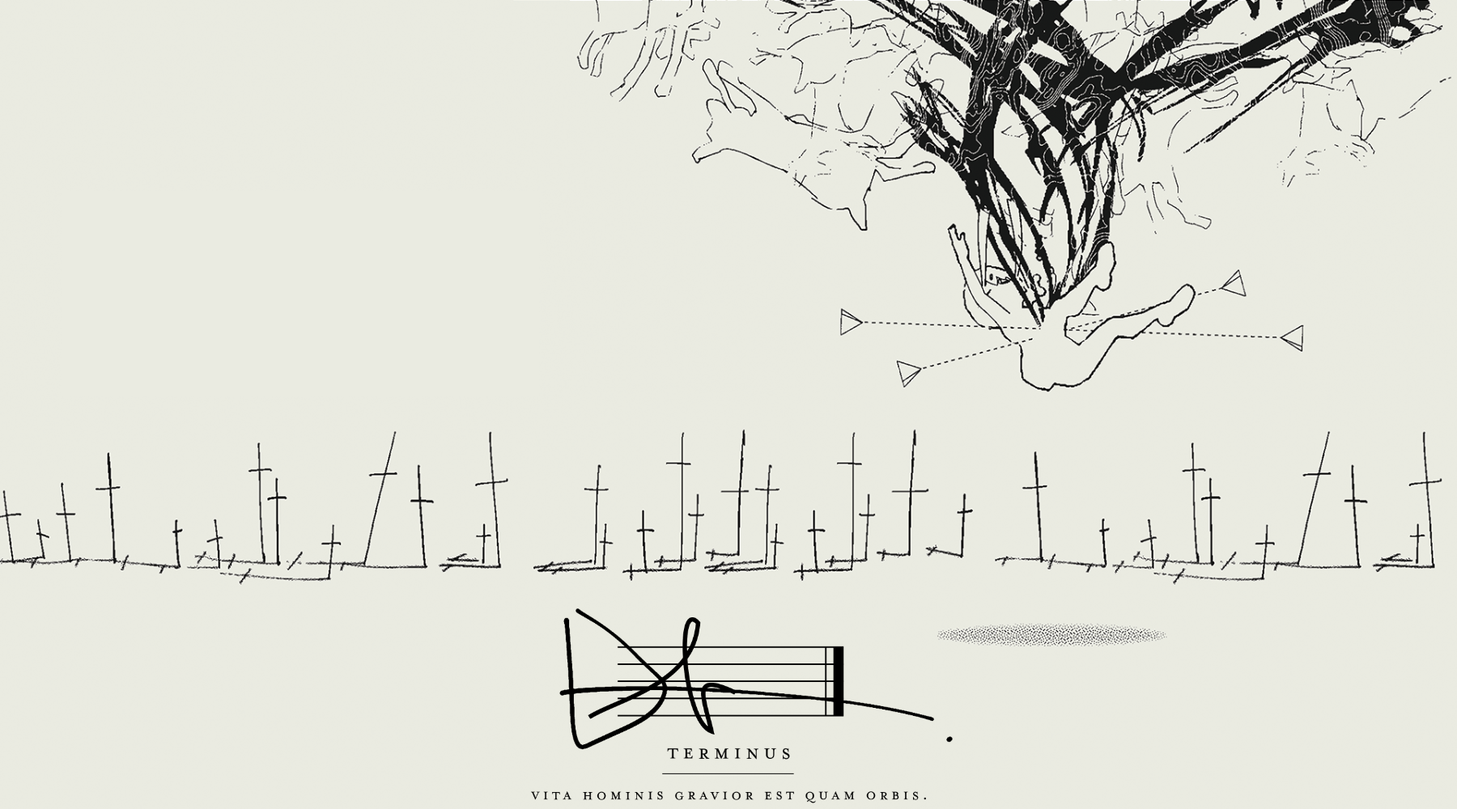
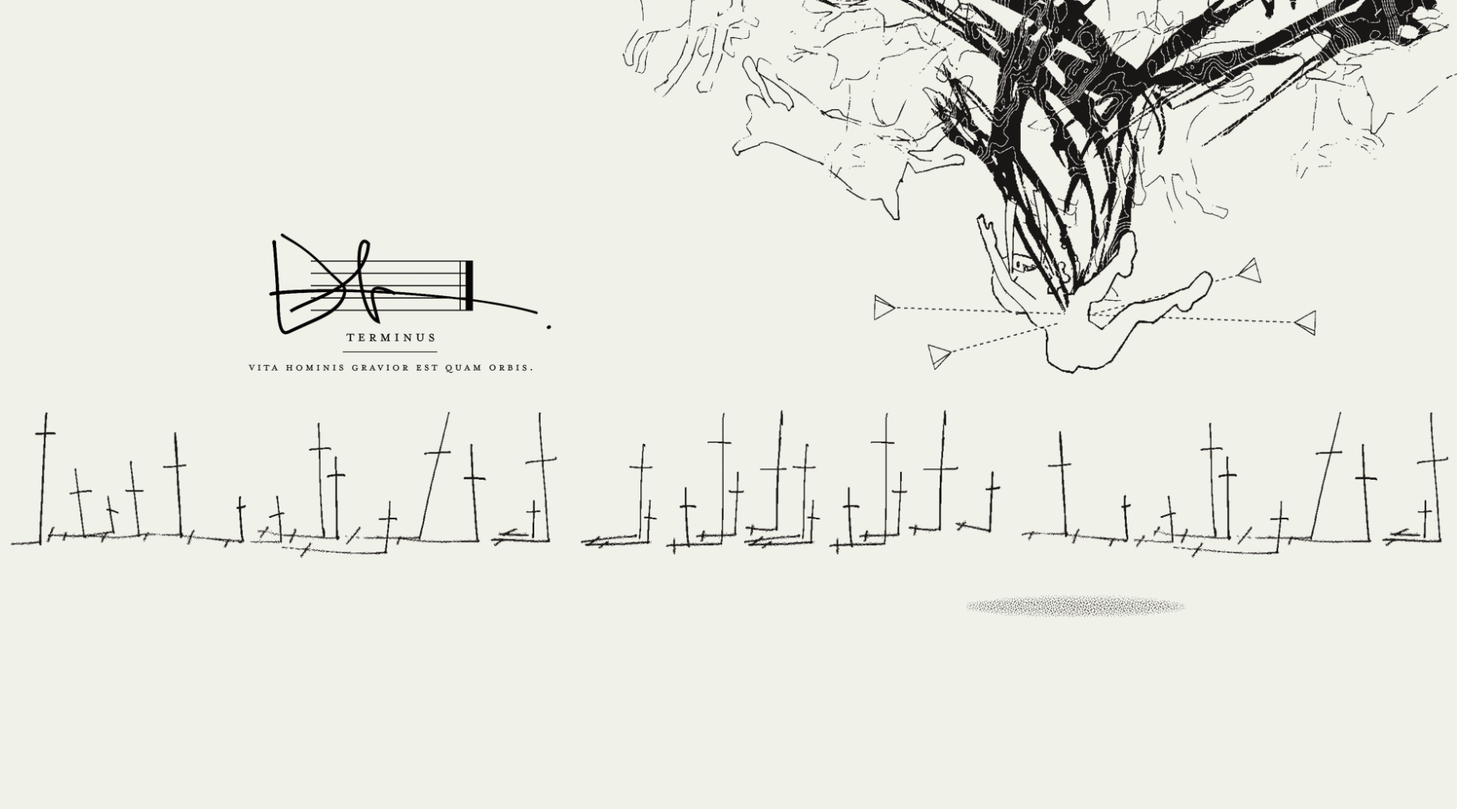
terminus 特設 bg

diff --git a/terminus/assets/style-light.css b/terminus/assets/style-light.css
@@ -1,1 +1,1 @@
-/*! normalize.css v4.1.1 | MIT License | github.com/necolas/normalize.css */html{font-family:sans-serif;-ms-text-size-adjust:100%;-webkit-text-size-adjust:100%}body{margin:0}article,aside,details,figcaption,figure,footer,header,main,menu,nav,section,summary{display:block}audio,canvas,progress,video{display:inline-block}audio:not([controls]){display:none;height:0}progress{vertical-align:baseline}template,[hidden]{display:none}a{background-color:transparent;-webkit-text-decoration-skip:objects}a:active,a:hover{outline-width:0}abbr[title]{border-bottom:none;text-decoration:underline;text-decoration:underline dotted}b,strong{font-weight:inherit}b,strong{font-weight:bolder}dfn{font-style:italic}h1{font-size:2em;margin:.67em 0}mark{background-color:#ff0;color:#000}small{font-size:80%}sub,sup{font-size:75%;line-height:0;position:relative;vertical-align:baseline}sub{bottom:-.25em}sup{top:-.5em}img{border-style:none}svg:not(:root){overflow:hidden}code,kbd,pre,samp{font-family:monospace,monospace;font-size:1em}figure{margin:1em 40px}hr{box-sizing:content-box;height:0;overflow:visible}button,input,select,textarea{font:inherit;margin:0}optgroup{font-weight:700}button,input{overflow:visible}button,select{text-transform:none}button,html [type=button],[type=reset],[type=submit]{-webkit-appearance:button}button::-moz-focus-inner,[type=button]::-moz-focus-inner,[type=reset]::-moz-focus-inner,[type=submit]::-moz-focus-inner{border-style:none;padding:0}button:-moz-focusring,[type=button]:-moz-focusring,[type=reset]:-moz-focusring,[type=submit]:-moz-focusring{outline:1px dotted ButtonText}fieldset{border:1px solid silver;margin:0 2px;padding:.35em .625em .75em}legend{box-sizing:border-box;color:inherit;display:table;max-width:100%;padding:0;white-space:normal}textarea{overflow:auto}[type=checkbox],[type=radio]{box-sizing:border-box;padding:0}[type=number]::-webkit-inner-spin-button,[type=number]::-webkit-outer-spin-button{height:auto}[type=search]{-webkit-appearance:textfield;outline-offset:-2px}[type=search]::-webkit-search-cancel-button,[type=search]::-webkit-search-decoration{-webkit-appearance:none}::-webkit-input-placeholder{color:inherit;opacity:.54;-ms-filter:"progid:DXImageTransform.Microsoft.Alpha(Opacity=54)"}::-webkit-file-upload-button{-webkit-appearance:button;font:inherit}body{font-family:Helvetica Neue,Helvetica,Arial,sans-serif;background:#ebeae1;color:#36393d;-webkit-font-smoothing:antialiased;line-height:1.3;font-size:14.4px;font-size:.9rem;word-wrap:break-word}a{color:#5289db;-webkit-transition:all .2s;transition:all .2s;text-decoration:none}a:hover:not(.btn){text-decoration:underline}p{line-height:1.6}h1 a,h1 a:hover,h2 a,h2 a:hover,h3 a,h3 a:hover,h4 a,h4 a:hover,h5 a,h5 a:hover,h6 a,h6 a:hover{color:#36393d;text-decoration:none}.l-section{margin:2.5em auto}@media(min-width:992px){.l-section{margin:4em auto}}.l-section img{max-width:100%}.section-header{text-align:center;margin-bottom:2em}.section-header h2{margin:.5em auto;font-size:25.6px;font-size:1.6rem}@media(min-width:768px){.section-header h2{font-size:2rem}}.tmblr-iframe,.tmblr-iframe--mobile-loggedin-controls,.iframe-controls--phone-mobile{display:none!important}.tmblr-iframe--controls-phone-container,.tmblr-iframe-pushdown{padding-top:0!important}.l-container{width:auto;margin-left:10px;margin-right:10px}@media(min-width:768px){.l-container{width:720px;margin-left:auto;margin-right:auto}}@media(min-width:992px){.l-container{width:940px}}@media(min-width:1200px){.l-container{width:1140px}}.l-row:after{content:" ";display:block;clear:both}@media(min-width:768px){.l-row{margin-left:-15px;margin-right:-15px}}[class*=l-span]{margin-bottom:1em}@media(min-width:768px){[class*=l-span]{float:left;padding-right:15px;padding-left:15px;min-height:1px;box-sizing:border-box;margin-bottom:0}}[class*=l-span] img{max-width:100%}@media(min-width:768px){.l-span1{width:8.33333333%}.l-span2{width:16.66666667%}.l-span3{width:25%}.l-span4{width:33.33333333%}.l-span5{width:41.66666667%}.l-span6{width:50%}.l-span7{width:58.33333333%}.l-span8{width:66.66666667%}.l-span9{width:75%}.l-span10{width:83.33333333%}.l-span11{width:91.66666667%}}.globalHeader.is-transparent{background-color:#ebeae1!important}@media(min-width:768px){.globalHeader.is-transparent{background-color:transparent!important;position:absolute;top:0;left:0;width:100%;z-index:2}}@media(min-width:768px){.globalHeader.is-dark,.globalHeader.is-light,.globalHeader.is-accent{position:static}}@media(min-width:768px){.globalHeader.is-dark .btn-tw,.globalHeader.is-dark .btn-fb,.globalHeader.is-light .btn-tw,.globalHeader.is-light .btn-fb,.globalHeader.is-accent .btn-tw,.globalHeader.is-accent .btn-fb{border:none;box-shadow:none}}.globalHeader.is-dark{background-color:#232426!important}.globalHeader.is-dark a{color:#ebeae1}.globalHeader.is-light{background-color:#ebeae1!important}.globalHeader.is-light a{color:#36393d}.globalHeader.is-accent a{color:#ebeae1}.globalHeader-inner{display:-webkit-box;display:-ms-flexbox;display:flex;-webkit-box-pack:justify;-ms-flex-pack:justify;justify-content:space-between;padding:.7em 0}.globalHeader-shareBtns{display:-webkit-box;display:-ms-flexbox;display:flex;-webkit-box-align:center;-ms-flex-align:center;align-items:center}@media(min-width:768px){.globalHeader-shareBtns .btn-tw,.globalHeader-shareBtns .btn-fb{border:1px solid #ebeae1;box-shadow:0 4px 10px rgba(0,0,0,.4)}}.btn-tw,.btn-fb{display:inline-block;border-radius:50%;margin-left:1em;width:36px;height:36px;display:-webkit-box;display:-ms-flexbox;display:flex;-webkit-box-align:center;-ms-flex-align:center;align-items:center;-webkit-box-pack:center;-ms-flex-pack:center;justify-content:center}.btn-tw:first-child,.btn-fb:first-child{margin-left:0}.btn-tw svg,.btn-fb svg{width:18px;height:18px}@media(min-width:768px){.btn-tw,.btn-fb{width:40px;height:40px}}.btn-tw{background-color:#55acee}.btn-fb{background-color:#3b5998}.globalHeader-labelName{display:-webkit-box;display:-ms-flexbox;display:flex;-webkit-box-align:center;-ms-flex-align:center;align-items:center;max-width:60%;word-break:break-all}.globalHeader-labelName a{color:#36393d}.labelName-logoImg{max-width:100%}.heroHeader{background-color:#ebeae1}.heroHeader-inner{background-repeat:no-repeat;background-position:center center;background-size:cover;margin-left:auto;margin-right:auto;max-width:1800px;position:relative;display:-webkit-box;display:-ms-flexbox;display:flex;-webkit-box-align:center;-ms-flex-align:center;align-items:center}.heroHeader-inner.has-headerImage{height:55vw}@media(min-width:1800px){.heroHeader-inner.has-headerImage{height:1000px}}@media(min-width:1800px){.heroHeader-inner:before{content:"";position:absolute;top:0;left:0;width:10vw;height:100%;background:-webkit-linear-gradient(left,rgba(0,0,0,0),transparent);background:linear-gradient(to right,rgba(0,0,0,0),transparent)}.heroHeader-inner:after{content:"";position:absolute;top:0;right:0;width:10vw;height:100%;background:-webkit-linear-gradient(right,rgba(0,0,0,0),transparent);background:linear-gradient(to left,rgba(0,0,0,0),transparent)}}.heroHeader-inner.is-position-top{-webkit-box-align:start;-ms-flex-align:start;-ms-grid-row-align:flex-start;align-items:flex-start}.heroHeader-inner.is-position-top .header{margin-top:3%}@media(min-width:768px){.heroHeader-inner.is-position-top .header{margin-top:7%}}@media(min-width:992px){.heroHeader-inner.is-position-top .header{margin-top:5%}}.heroHeader-inner.is-position-middle{-webkit-box-align:center;-ms-flex-align:center;-ms-grid-row-align:center;align-items:center}.heroHeader-inner.is-position-bottom{-webkit-box-align:end;-ms-flex-align:end;-ms-grid-row-align:flex-end;align-items:flex-end}.heroHeader-inner.is-position-bottom .header{margin-bottom:3%}.header{text-align:center;width:100%}.header .header-logo{max-width:100%}.header h1{margin:0}.section-introduction{text-align:center}.section-introduction .section-content{text-align:left}@media(min-width:768px){.section-introduction .section-content{text-align:center}}.section-spec .jacket-image{max-width:300px;display:block;margin:0 auto 1.5em;border:1px solid #191919;}@media(max-width:319px){.section-spec .jacket-image{max-width:100%;border:1px solid #191919;}}@media(min-width:768px){.section-spec .jacket-image{max-width:100%;border:1px solid #191919;}}.section-spec .jacket-noimage{height:40vw;width:100%;letter-spacing:.3em;border:1px solid #ddd;display:-webkit-box;display:-ms-flexbox;display:flex;-webkit-box-align:center;-ms-flex-align:center;align-items:center;-webkit-box-pack:center;-ms-flex-pack:center;justify-content:center}.spec-dl{margin:0}.spec-dl dt{font-weight:700;position:relative;margin-bottom:.5em}.spec-dl dt:after{content:"";position:absolute;top:50%;left:0;z-index:1;width:100%;background-color:#ddd;height:1px;display:block}.spec-dl .spec-dl-label{background-color:#ebeae1;display:inline-block;position:relative;z-index:2;padding-right:1em}.spec-dl dd{margin-left:0;margin-bottom:2em}.spec-dl dd:last-child{margin-bottom:0}@media(min-width:768px){.bookSample-container{display:-webkit-box;display:-ms-flexbox;display:flex;-ms-flex-pack:distribute;justify-content:space-around;-ms-flex-wrap:wrap;flex-wrap:wrap;-webkit-box-align:center;-ms-flex-align:center;align-items:center}}.bookSample-content{text-align:center;margin-bottom:1em}@media(min-width:768px){.bookSample-content{cursor:zoom-in}}.bookSample-content .bookSample-image{max-width:100%}@media(min-width:768px){.bookSample-items1 .bookSample-content{width:100%}.bookSample-items2 .bookSample-content{width:48%}.bookSample-items3 .bookSample-content{width:31%}.bookSample-items4 .bookSample-content{width:48%}.bookSample-items5 .bookSample-content{width:31%}.bookSample-items6 .bookSample-content{width:31%}}.bookSample-lightbox{display:none}@media(min-width:768px){.bookSample-lightbox{cursor:zoom-out}.bookSample-lightbox.is-open{display:-webkit-box;display:-ms-flexbox;display:flex;-webkit-box-align:center;-ms-flex-align:center;align-items:center;-webkit-box-pack:center;-ms-flex-pack:center;justify-content:center;position:fixed;top:0;left:0;width:100%;height:100%;z-index:10;background-color:rgba(0,0,0,.8)}.bookSample-lightbox.is-open img{max-width:100%;max-height:100%}}@media(min-width:768px){body.is-open{overflow:hidden}}.section-buy{background-color:rgba(0,0,10,.07);padding:1em 0 1.5em}.spec-buy-container{text-align:center}.spec-buy-button{display:inline-block;text-align:center;padding:.6em 1.2em;cursor:pointer;line-height:1.5;font-size:90%;border-radius:.25em;overflow:hidden;color:#5289db;background-color:transparent;text-decoration:none;border:1px solid #5289db;-webkit-transition:all .2s;transition:all .2s;padding:.7em;font-size:110%;box-sizing:border-box;border-width:2px;width:100%;margin:.2em 0}.spec-buy-button:hover{background-color:#5289db;color:#ebeae1;text-decoration:none;border-color:transparent}@media(min-width:768px){.spec-buy-button{padding:.7em 2em;width:auto}}.section-tracklist .section-content{display:-webkit-box;display:-ms-flexbox;display:flex;-webkit-box-pack:center;-ms-flex-pack:center;justify-content:center}.tracklist{display:table;width:auto;margin:0;padding:0}.tracklist li{display:-webkit-box;display:-ms-flexbox;display:flex;list-style:none;margin-bottom:24px;margin-bottom:1.5rem}@media(min-width:768px){.tracklist li{margin-bottom:2em}}.tracklist li .track-title{display:block}.track-number{color:#5289db;margin-right:.5em;font-size:17.6px;font-size:1.1rem}@media(min-width:768px){.track-number{font-size:1.3rem}}.track-title{font-size:17.6px;font-size:1.1rem;font-weight:700}@media(min-width:768px){.track-title{font-size:1.3rem}}.track-meta{color:#878ea0}.section-youtube .section-content,.section-nicovideo .section-content{max-width:700px;margin:auto}.video-wrap{position:relative;padding-bottom:56.25%;padding-top:30px;height:100%;overflow:hidden;text-align:center}.video-wrap iframe,.video-wrap object,.video-wrap embed{position:absolute;top:0;left:0;width:100%;height:100%}.nicovideo-player{text-align:center}.nicovideo-player>embed,.nicovideo-player div,.nicovideo-player iframe{margin-left:auto;margin-right:auto}.section-additionalContent{text-align:center}.section-additionalContent .section-content{text-align:left}@media(min-width:768px){.section-additionalContent .section-content{text-align:center}}.additionalContent-image-wrapper{margin-top:1.5em;margin-bottom:1em;text-align:center}.credit{display:-webkit-box;display:-ms-flexbox;display:flex;-webkit-box-orient:vertical;-webkit-box-direction:normal;-ms-flex-direction:column;flex-direction:column;-webkit-box-pack:justify;-ms-flex-pack:justify;justify-content:space-between;margin:0;padding:0}@media(min-width:768px){.credit{-webkit-box-orient:horizontal;-webkit-box-direction:normal;-ms-flex-direction:row;flex-direction:row;-ms-flex-wrap:wrap;flex-wrap:wrap}}.credit li{list-style:none;text-align:center;margin-bottom:24px;margin-bottom:1.5rem}@media(min-width:768px){.credit li{width:30%;margin-bottom:2rem}}.credit-role,.credit-title,.credit-website{display:block}.credit-role{color:#878ea0}.credit-title{font-weight:700;margin:.4em 0;font-size:17.6px;font-size:1.1rem}@media(min-width:768px){.credit-title{font-size:1.3rem}}.credit-website-link{display:inline-block;text-align:center;padding:.6em 1.2em;cursor:pointer;line-height:1.5;font-size:90%;border-radius:.25em;overflow:hidden;color:#5289db;background-color:transparent;text-decoration:none;border:1px solid #5289db;-webkit-transition:all .2s;transition:all .2s;font-size:11.2px;font-size:.7rem;padding:.2em .7em}.credit-website-link:hover{background-color:#5289db;color:#ebeae1;text-decoration:none;border-color:transparent}.section-banner .section-content{text-align:center}.footer-shareBtns{display:-webkit-box;display:-ms-flexbox;display:flex;-webkit-box-pack:center;-ms-flex-pack:center;justify-content:center}.footer-shareBtns .btn-tw,.footer-shareBtns .btn-fb{width:50px;height:50px}.section-footer{margin-bottom:1em}@media(min-width:768px){.section-footer{margin-bottom:2em}}.footer-content{font-size:12px;font-size:.75rem;text-align:center;color:#878ea0}.footer-content a{font-weight:700;text-decoration:none;color:#878ea0}.footer-content span{line-height:1.4}@media(min-width:768px){.footer-content{display:-webkit-box;display:-ms-flexbox;display:flex;-webkit-box-pack:justify;-ms-flex-pack:justify;justify-content:space-between}}.footer-copyright{margin-bottom:2em;-webkit-box-align:center;-ms-flex-align:center;-ms-grid-row-align:center;align-items:center}@media(min-width:768px){.footer-copyright{text-align:left;margin-bottom:0}}.footer-theme{text-align:left;display:-webkit-box;display:-ms-flexbox;display:flex;margin:auto;-webkit-box-align:center;-ms-flex-align:center;align-items:center}.footer-theme>div{vertical-align:middle}@media(min-width:768px){.footer-theme{margin:0;text-align:right}}.footer-title{display:block;font-size:16px;font-size:1rem}.footer-theme-author{padding-right:1em}@media(min-width:768px){.footer-theme-author{min-width:250px}}.footer-text{margin-bottom:0}.footer-theme-tokusetsu3{display:block}.footer-install-btn{display:inline-block;text-align:center;padding:.6em 1.2em;cursor:pointer;line-height:1.5;font-size:90%;border-radius:.25em;overflow:hidden;color:#5289db;background-color:transparent;text-decoration:none;border:1px solid #5289db;-webkit-transition:all .2s;transition:all .2s;border-color:#ddd;white-space:nowrap}.footer-install-btn:hover{background-color:#5289db;color:#ebeae1;text-decoration:none;border-color:transparent}.footer-install-btn:hover{text-decoration:none!important;background-color:#ddd}.section-demo .l-container{border:2px dashed #ddd;padding:1em;box-sizing:border-box}.section-demo h3{text-align:center;font-size:150%}
+/*! normalize.css v4.1.1 | MIT License | github.com/necolas/normalize.css */html{font-family:sans-serif;-ms-text-size-adjust:100%;-webkit-text-size-adjust:100%}body{margin:0}article,aside,details,figcaption,figure,footer,header,main,menu,nav,section,summary{display:block}audio,canvas,progress,video{display:inline-block}audio:not([controls]){display:none;height:0}progress{vertical-align:baseline}template,[hidden]{display:none}a{background-color:transparent;-webkit-text-decoration-skip:objects}a:active,a:hover{outline-width:0}abbr[title]{border-bottom:none;text-decoration:underline;text-decoration:underline dotted}b,strong{font-weight:inherit}b,strong{font-weight:bolder}dfn{font-style:italic}h1{font-size:2em;margin:.67em 0}mark{background-color:#ff0;color:#000}small{font-size:80%}sub,sup{font-size:75%;line-height:0;position:relative;vertical-align:baseline}sub{bottom:-.25em}sup{top:-.5em}img{border-style:none}svg:not(:root){overflow:hidden}code,kbd,pre,samp{font-family:monospace,monospace;font-size:1em}figure{margin:1em 40px}hr{box-sizing:content-box;height:0;overflow:visible}button,input,select,textarea{font:inherit;margin:0}optgroup{font-weight:700}button,input{overflow:visible}button,select{text-transform:none}button,html [type=button],[type=reset],[type=submit]{-webkit-appearance:button}button::-moz-focus-inner,[type=button]::-moz-focus-inner,[type=reset]::-moz-focus-inner,[type=submit]::-moz-focus-inner{border-style:none;padding:0}button:-moz-focusring,[type=button]:-moz-focusring,[type=reset]:-moz-focusring,[type=submit]:-moz-focusring{outline:1px dotted ButtonText}fieldset{border:1px solid silver;margin:0 2px;padding:.35em .625em .75em}legend{box-sizing:border-box;color:inherit;display:table;max-width:100%;padding:0;white-space:normal}textarea{overflow:auto}[type=checkbox],[type=radio]{box-sizing:border-box;padding:0}[type=number]::-webkit-inner-spin-button,[type=number]::-webkit-outer-spin-button{height:auto}[type=search]{-webkit-appearance:textfield;outline-offset:-2px}[type=search]::-webkit-search-cancel-button,[type=search]::-webkit-search-decoration{-webkit-appearance:none}::-webkit-input-placeholder{color:inherit;opacity:.54;-ms-filter:"progid:DXImageTransform.Microsoft.Alpha(Opacity=54)"}::-webkit-file-upload-button{-webkit-appearance:button;font:inherit}body{font-family:Helvetica Neue,Helvetica,Arial,sans-serif;background:#F0F1E8;color:#36393d;-webkit-font-smoothing:antialiased;line-height:1.3;font-size:14.4px;font-size:.9rem;word-wrap:break-word}a{color:#5289db;-webkit-transition:all .2s;transition:all .2s;text-decoration:none}a:hover:not(.btn){text-decoration:underline}p{line-height:1.6}h1 a,h1 a:hover,h2 a,h2 a:hover,h3 a,h3 a:hover,h4 a,h4 a:hover,h5 a,h5 a:hover,h6 a,h6 a:hover{color:#36393d;text-decoration:none}.l-section{margin:2.5em auto}@media(min-width:992px){.l-section{margin:4em auto}}.l-section img{max-width:100%}.section-header{text-align:center;margin-bottom:2em}.section-header h2{margin:.5em auto;font-size:25.6px;font-size:1.6rem}@media(min-width:768px){.section-header h2{font-size:2rem}}.tmblr-iframe,.tmblr-iframe--mobile-loggedin-controls,.iframe-controls--phone-mobile{display:none!important}.tmblr-iframe--controls-phone-container,.tmblr-iframe-pushdown{padding-top:0!important}.l-container{width:auto;margin-left:10px;margin-right:10px}@media(min-width:768px){.l-container{width:720px;margin-left:auto;margin-right:auto}}@media(min-width:992px){.l-container{width:940px}}@media(min-width:1200px){.l-container{width:1140px}}.l-row:after{content:" ";display:block;clear:both}@media(min-width:768px){.l-row{margin-left:-15px;margin-right:-15px}}[class*=l-span]{margin-bottom:1em}@media(min-width:768px){[class*=l-span]{float:left;padding-right:15px;padding-left:15px;min-height:1px;box-sizing:border-box;margin-bottom:0}}[class*=l-span] img{max-width:100%}@media(min-width:768px){.l-span1{width:8.33333333%}.l-span2{width:16.66666667%}.l-span3{width:25%}.l-span4{width:33.33333333%}.l-span5{width:41.66666667%}.l-span6{width:50%}.l-span7{width:58.33333333%}.l-span8{width:66.66666667%}.l-span9{width:75%}.l-span10{width:83.33333333%}.l-span11{width:91.66666667%}}.globalHeader.is-transparent{background-color:#F0F1E8!important}@media(min-width:768px){.globalHeader.is-transparent{background-color:transparent!important;position:absolute;top:0;left:0;width:100%;z-index:2}}@media(min-width:768px){.globalHeader.is-dark,.globalHeader.is-light,.globalHeader.is-accent{position:static}}@media(min-width:768px){.globalHeader.is-dark .btn-tw,.globalHeader.is-dark .btn-fb,.globalHeader.is-light .btn-tw,.globalHeader.is-light .btn-fb,.globalHeader.is-accent .btn-tw,.globalHeader.is-accent .btn-fb{border:none;box-shadow:none}}.globalHeader.is-dark{background-color:#232426!important}.globalHeader.is-dark a{color:#F0F1E8}.globalHeader.is-light{background-color:#F0F1E8!important}.globalHeader.is-light a{color:#36393d}.globalHeader.is-accent a{color:#F0F1E8}.globalHeader-inner{display:-webkit-box;display:-ms-flexbox;display:flex;-webkit-box-pack:justify;-ms-flex-pack:justify;justify-content:space-between;padding:.7em 0}.globalHeader-shareBtns{display:-webkit-box;display:-ms-flexbox;display:flex;-webkit-box-align:center;-ms-flex-align:center;align-items:center}@media(min-width:768px){.globalHeader-shareBtns .btn-tw,.globalHeader-shareBtns .btn-fb{border:1px solid #F0F1E8;box-shadow:0 4px 10px rgba(0,0,0,.4)}}.btn-tw,.btn-fb{display:inline-block;border-radius:50%;margin-left:1em;width:36px;height:36px;display:-webkit-box;display:-ms-flexbox;display:flex;-webkit-box-align:center;-ms-flex-align:center;align-items:center;-webkit-box-pack:center;-ms-flex-pack:center;justify-content:center}.btn-tw:first-child,.btn-fb:first-child{margin-left:0}.btn-tw svg,.btn-fb svg{width:18px;height:18px}@media(min-width:768px){.btn-tw,.btn-fb{width:40px;height:40px}}.btn-tw{background-color:#55acee}.btn-fb{background-color:#3b5998}.globalHeader-labelName{display:-webkit-box;display:-ms-flexbox;display:flex;-webkit-box-align:center;-ms-flex-align:center;align-items:center;max-width:60%;word-break:break-all}.globalHeader-labelName a{color:#36393d}.labelName-logoImg{max-width:100%}.heroHeader{background-color:#F0F1E8}.heroHeader-inner{background-repeat:no-repeat;background-position:center center;background-size:cover;margin-left:auto;margin-right:auto;max-width:1800px;position:relative;display:-webkit-box;display:-ms-flexbox;display:flex;-webkit-box-align:center;-ms-flex-align:center;align-items:center}.heroHeader-inner.has-headerImage{height:55vw}@media(min-width:1800px){.heroHeader-inner.has-headerImage{height:1000px}}@media(min-width:1800px){.heroHeader-inner:before{content:"";position:absolute;top:0;left:0;width:10vw;height:100%;background:-webkit-linear-gradient(left,rgba(0,0,0,0),transparent);background:linear-gradient(to right,rgba(0,0,0,0),transparent)}.heroHeader-inner:after{content:"";position:absolute;top:0;right:0;width:10vw;height:100%;background:-webkit-linear-gradient(right,rgba(0,0,0,0),transparent);background:linear-gradient(to left,rgba(0,0,0,0),transparent)}}.heroHeader-inner.is-position-top{-webkit-box-align:start;-ms-flex-align:start;-ms-grid-row-align:flex-start;align-items:flex-start}.heroHeader-inner.is-position-top .header{margin-top:3%}@media(min-width:768px){.heroHeader-inner.is-position-top .header{margin-top:7%}}@media(min-width:992px){.heroHeader-inner.is-position-top .header{margin-top:5%}}.heroHeader-inner.is-position-middle{-webkit-box-align:center;-ms-flex-align:center;-ms-grid-row-align:center;align-items:center}.heroHeader-inner.is-position-bottom{-webkit-box-align:end;-ms-flex-align:end;-ms-grid-row-align:flex-end;align-items:flex-end}.heroHeader-inner.is-position-bottom .header{margin-bottom:3%}.header{text-align:center;width:100%}.header .header-logo{max-width:100%}.header h1{margin:0}.section-introduction{text-align:center}.section-introduction .section-content{text-align:left}@media(min-width:768px){.section-introduction .section-content{text-align:center}}.section-spec .jacket-image{max-width:300px;display:block;margin:0 auto 1.5em;border:1px solid #191919;}@media(max-width:319px){.section-spec .jacket-image{max-width:100%;border:1px solid #191919;}}@media(min-width:768px){.section-spec .jacket-image{max-width:100%;border:1px solid #191919;}}.section-spec .jacket-noimage{height:40vw;width:100%;letter-spacing:.3em;border:1px solid #ddd;display:-webkit-box;display:-ms-flexbox;display:flex;-webkit-box-align:center;-ms-flex-align:center;align-items:center;-webkit-box-pack:center;-ms-flex-pack:center;justify-content:center}.spec-dl{margin:0}.spec-dl dt{font-weight:700;position:relative;margin-bottom:.5em}.spec-dl dt:after{content:"";position:absolute;top:50%;left:0;z-index:1;width:100%;background-color:#ddd;height:1px;display:block}.spec-dl .spec-dl-label{background-color:#F0F1E8;display:inline-block;position:relative;z-index:2;padding-right:1em}.spec-dl dd{margin-left:0;margin-bottom:2em}.spec-dl dd:last-child{margin-bottom:0}@media(min-width:768px){.bookSample-container{display:-webkit-box;display:-ms-flexbox;display:flex;-ms-flex-pack:distribute;justify-content:space-around;-ms-flex-wrap:wrap;flex-wrap:wrap;-webkit-box-align:center;-ms-flex-align:center;align-items:center}}.bookSample-content{text-align:center;margin-bottom:1em}@media(min-width:768px){.bookSample-content{cursor:zoom-in}}.bookSample-content .bookSample-image{max-width:100%}@media(min-width:768px){.bookSample-items1 .bookSample-content{width:100%}.bookSample-items2 .bookSample-content{width:48%}.bookSample-items3 .bookSample-content{width:31%}.bookSample-items4 .bookSample-content{width:48%}.bookSample-items5 .bookSample-content{width:31%}.bookSample-items6 .bookSample-content{width:31%}}.bookSample-lightbox{display:none}@media(min-width:768px){.bookSample-lightbox{cursor:zoom-out}.bookSample-lightbox.is-open{display:-webkit-box;display:-ms-flexbox;display:flex;-webkit-box-align:center;-ms-flex-align:center;align-items:center;-webkit-box-pack:center;-ms-flex-pack:center;justify-content:center;position:fixed;top:0;left:0;width:100%;height:100%;z-index:10;background-color:rgba(0,0,0,.8)}.bookSample-lightbox.is-open img{max-width:100%;max-height:100%}}@media(min-width:768px){body.is-open{overflow:hidden}}.section-buy{background-color:rgba(0,0,10,.07);padding:1em 0 1.5em}.spec-buy-container{text-align:center}.spec-buy-button{display:inline-block;text-align:center;padding:.6em 1.2em;cursor:pointer;line-height:1.5;font-size:90%;border-radius:.25em;overflow:hidden;color:#5289db;background-color:transparent;text-decoration:none;border:1px solid #5289db;-webkit-transition:all .2s;transition:all .2s;padding:.7em;font-size:110%;box-sizing:border-box;border-width:2px;width:100%;margin:.2em 0}.spec-buy-button:hover{background-color:#5289db;color:#F0F1E8;text-decoration:none;border-color:transparent}@media(min-width:768px){.spec-buy-button{padding:.7em 2em;width:auto}}.section-tracklist .section-content{display:-webkit-box;display:-ms-flexbox;display:flex;-webkit-box-pack:center;-ms-flex-pack:center;justify-content:center}.tracklist{display:table;width:auto;margin:0;padding:0}.tracklist li{display:-webkit-box;display:-ms-flexbox;display:flex;list-style:none;margin-bottom:24px;margin-bottom:1.5rem}@media(min-width:768px){.tracklist li{margin-bottom:2em}}.tracklist li .track-title{display:block}.track-number{color:#5289db;margin-right:.5em;font-size:17.6px;font-size:1.1rem}@media(min-width:768px){.track-number{font-size:1.3rem}}.track-title{font-size:17.6px;font-size:1.1rem;font-weight:700}@media(min-width:768px){.track-title{font-size:1.3rem}}.track-meta{color:#878ea0}.section-youtube .section-content,.section-nicovideo .section-content{max-width:700px;margin:auto}.video-wrap{position:relative;padding-bottom:56.25%;padding-top:30px;height:100%;overflow:hidden;text-align:center}.video-wrap iframe,.video-wrap object,.video-wrap embed{position:absolute;top:0;left:0;width:100%;height:100%}.nicovideo-player{text-align:center}.nicovideo-player>embed,.nicovideo-player div,.nicovideo-player iframe{margin-left:auto;margin-right:auto}.section-additionalContent{text-align:center}.section-additionalContent .section-content{text-align:left}@media(min-width:768px){.section-additionalContent .section-content{text-align:center}}.additionalContent-image-wrapper{margin-top:1.5em;margin-bottom:1em;text-align:center}.credit{display:-webkit-box;display:-ms-flexbox;display:flex;-webkit-box-orient:vertical;-webkit-box-direction:normal;-ms-flex-direction:column;flex-direction:column;-webkit-box-pack:justify;-ms-flex-pack:justify;justify-content:space-between;margin:0;padding:0}@media(min-width:768px){.credit{-webkit-box-orient:horizontal;-webkit-box-direction:normal;-ms-flex-direction:row;flex-direction:row;-ms-flex-wrap:wrap;flex-wrap:wrap}}.credit li{list-style:none;text-align:center;margin-bottom:24px;margin-bottom:1.5rem}@media(min-width:768px){.credit li{width:30%;margin-bottom:2rem}}.credit-role,.credit-title,.credit-website{display:block}.credit-role{color:#878ea0}.credit-title{font-weight:700;margin:.4em 0;font-size:17.6px;font-size:1.1rem}@media(min-width:768px){.credit-title{font-size:1.3rem}}.credit-website-link{display:inline-block;text-align:center;padding:.6em 1.2em;cursor:pointer;line-height:1.5;font-size:90%;border-radius:.25em;overflow:hidden;color:#5289db;background-color:transparent;text-decoration:none;border:1px solid #5289db;-webkit-transition:all .2s;transition:all .2s;font-size:11.2px;font-size:.7rem;padding:.2em .7em}.credit-website-link:hover{background-color:#5289db;color:#F0F1E8;text-decoration:none;border-color:transparent}.section-banner .section-content{text-align:center}.footer-shareBtns{display:-webkit-box;display:-ms-flexbox;display:flex;-webkit-box-pack:center;-ms-flex-pack:center;justify-content:center}.footer-shareBtns .btn-tw,.footer-shareBtns .btn-fb{width:50px;height:50px}.section-footer{margin-bottom:1em}@media(min-width:768px){.section-footer{margin-bottom:2em}}.footer-content{font-size:12px;font-size:.75rem;text-align:center;color:#878ea0}.footer-content a{font-weight:700;text-decoration:none;color:#878ea0}.footer-content span{line-height:1.4}@media(min-width:768px){.footer-content{display:-webkit-box;display:-ms-flexbox;display:flex;-webkit-box-pack:justify;-ms-flex-pack:justify;justify-content:space-between}}.footer-copyright{margin-bottom:2em;-webkit-box-align:center;-ms-flex-align:center;-ms-grid-row-align:center;align-items:center}@media(min-width:768px){.footer-copyright{text-align:left;margin-bottom:0}}.footer-theme{text-align:left;display:-webkit-box;display:-ms-flexbox;display:flex;margin:auto;-webkit-box-align:center;-ms-flex-align:center;align-items:center}.footer-theme>div{vertical-align:middle}@media(min-width:768px){.footer-theme{margin:0;text-align:right}}.footer-title{display:block;font-size:16px;font-size:1rem}.footer-theme-author{padding-right:1em}@media(min-width:768px){.footer-theme-author{min-width:250px}}.footer-text{margin-bottom:0}.footer-theme-tokusetsu3{display:block}.footer-install-btn{display:inline-block;text-align:center;padding:.6em 1.2em;cursor:pointer;line-height:1.5;font-size:90%;border-radius:.25em;overflow:hidden;color:#5289db;background-color:transparent;text-decoration:none;border:1px solid #5289db;-webkit-transition:all .2s;transition:all .2s;border-color:#ddd;white-space:nowrap}.footer-install-btn:hover{background-color:#5289db;color:#F0F1E8;text-decoration:none;border-color:transparent}.footer-install-btn:hover{text-decoration:none!important;background-color:#ddd}.section-demo .l-container{border:2px dashed #ddd;padding:1em;box-sizing:border-box}.section-demo h3{text-align:center;font-size:150%}
